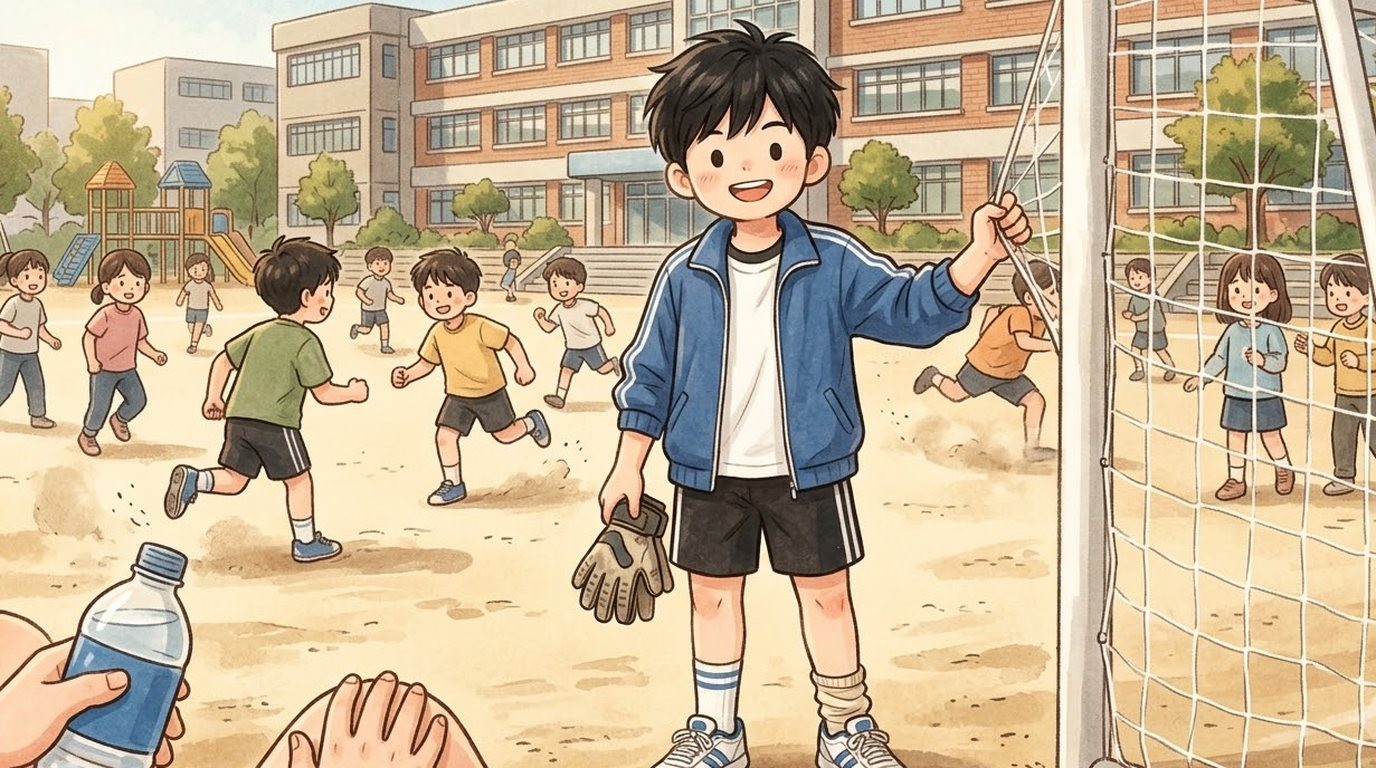
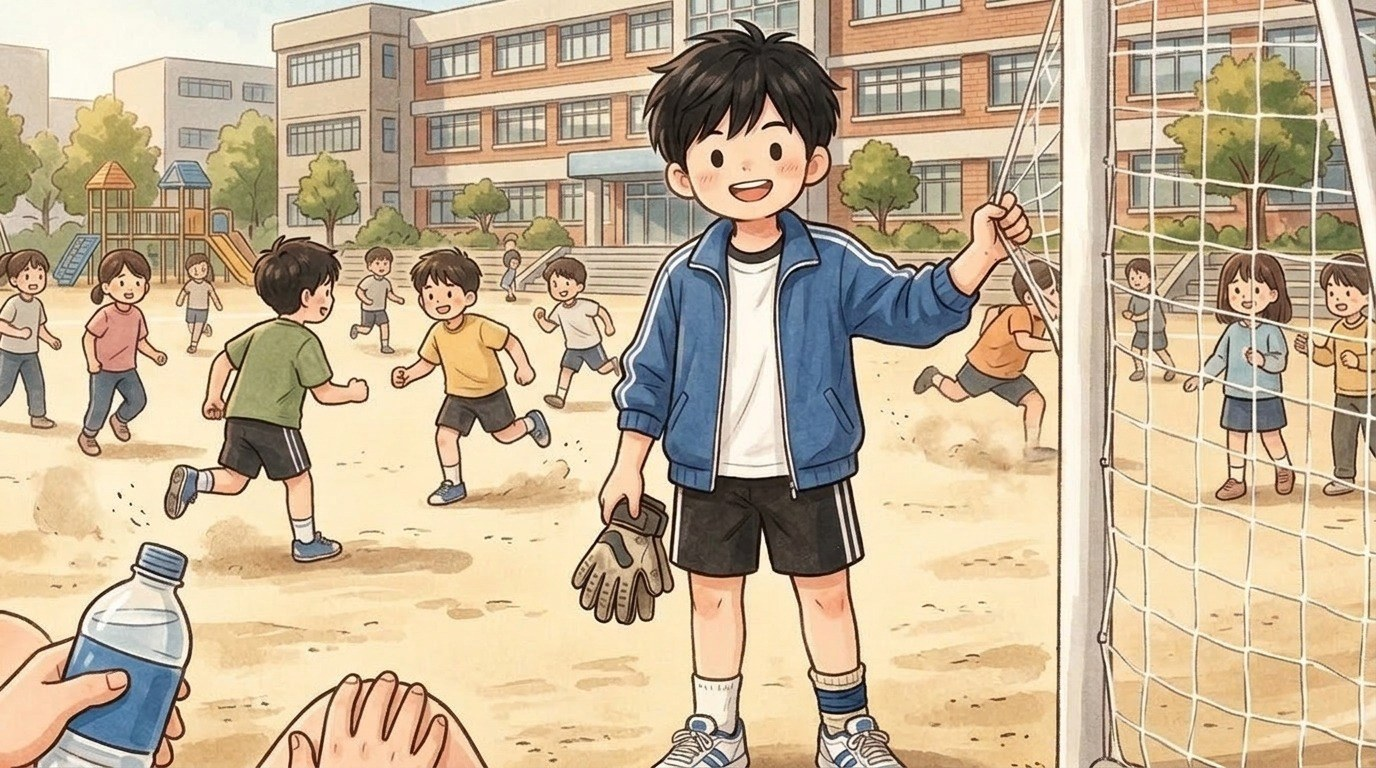
Junho AI check (days 8-15, 11/07): the classroom empties from the line that says so; bigger paper ball and goalkeeper gloves to find; no keeper picture over 'he took off the gloves', the map at the taps; pictures: brace on his left ankle (junho_08 flipped), short socks and ankle band (junho_09a), Do

diff --git a/index.html b/index.html
@@ -119,14 +119,14 @@ body,button{word-break:keep-all;overflow-wrap:break-word}
 <div id="fader"></div>
 <script>
 // same address, newest version: if the page this phone has kept is older than the one online, fetch the new one and reopen
-const BUILD='1107110427';
+const BUILD='1107111140';
 try{fetch(location.pathname,{cache:'no-store'}).then(r=>r.text()).then(t=>{const m=t.match(/const BUILD='(\d+)'/);if(m&&m[1]!==BUILD&&sessionStorage.getItem('upd')!==m[1]){sessionStorage.setItem('upd',m[1]);fetch(location.pathname,{cache:'reload'}).then(()=>location.reload())}}).catch(()=>{})}catch(e){}
 </script>
-<script src="i18n.js?v=1107110427"></script>
-<script src="i18n_prologue_v2.js?v=1107110427"></script>
-<script src="day2/i18n_engine.js?v=1107110427"></script>
-<script src="day2/data.js?v=1107110427"></script>
-<script src="day3/data.js?v=1107110427"></script>
+<script src="i18n.js?v=1107111140"></script>
+<script src="i18n_prologue_v2.js?v=1107111140"></script>
+<script src="day2/i18n_engine.js?v=1107111140"></script>
+<script src="day2/data.js?v=1107111140"></script>
+<script src="day3/data.js?v=1107111140"></script>
 <script>
 // ---------- data ----------
 const MW=1672,MH=941,KID=180;
@@ -549,34 +549,34 @@ function pickHero(){const m=document.getElementById('modal'),c=document.getEleme
  c.innerHTML=`<h2>${tr('전학생 반장되기')}</h2><p>${tr('한국말이 아직 서툰 전학생,<br>반장 선거에 나가다.')}</p><p style="margin-top:14px">${tr('누구로 할까요?')}</p>${(()=>{const s=loadSave();return s&&s.day>=2&&s.mode===UI+'-'+LANG?`<p><button class="big" id="cont">${tr('{n}일차부터 이어 하기').replace('{n}',s.day)}</button></p>`:''})()}<div class="pick heroes"><button data-h="hero_f"><img src="faces/hero_f_smile.jpg" alt="여자 주인공">${heroName(1)}</button><button data-h="hero_m"><img src="faces/hero_m_smile.jpg" alt="남자 주인공">${heroName(0)}</button></div>`;
  m.classList.add('on');{const cb=document.getElementById('cont');if(cb)cb.onclick=()=>{const s=loadSave();HERO=s.hero;Object.assign(HEART,s.heart||{});(s.found||[]).forEach(k=>FOUND.add(k));HEART_D1={...HEART};chime();(typeof contGame==='function'?contGame(s):startDay(Math.min(s.day,Object.keys(window.D3||{}).length?3:2)))}}c.querySelectorAll('.pick button').forEach(b=>b.onclick=()=>{HERO=b.dataset.h;m.classList.remove('on');chime();bgm('day');load('home_am');say([['nar','','이사 온 다음 날 아침. 아직 풀지 못한 상자들이 쌓여 있다.'],['think','sad','(오늘부터 새 학교야. 여기 말도 아직 서툰데…….)'],['think','smile','({m}한테 인사하고 학교 가야지.)']],morning)})}
 </script>
-<script src="day2/engine.js?v=1107110427"></script>
-<script src="day2/ep_minho.js?v=1107110427"></script>
-<script src="day2/meet.js?v=1107110427"></script>
-<script src="day2/ep_sua.js?v=1107110427"></script>
-<script src="day2/ep_hangyeol.js?v=1107110427"></script>
-<script src="day2/ep_siwoo.js?v=1107110427"></script>
-<script src="day2/ep_haram.js?v=1107110427"></script>
-<script src="day2/ep_jiho.js?v=1107110427"></script>
-<script src="day2/ep_hyeeun.js?v=1107110427"></script>
-<script src="day2/ep_haneul.js?v=1107110427"></script>
-<script src="day2/ep_junho.js?v=1107110427"></script>
-<script src="day2/ep_yuna.js?v=1107110427"></script>
-<script src="day2/ep_yena.js?v=1107110427"></script>
-<script src="day2/ep_haeun.js?v=1107110427"></script>
-<script src="day2/ep_youngmin.js?v=1107110427"></script>
-<script src="day2/ep_seah.js?v=1107110427"></script>
-<script src="day2/ep_jihoon.js?v=1107110427"></script>
-<script src="words_ja_ru.js?v=1107110427"></script>
-<script src="day2/mybag.js?v=1107110427"></script>
-<script src="day2/wordpics.js?v=1107110427"></script>
-<script src="day2/spots.js?v=1107110427"></script>
-<script src="day2/textfit.js?v=1107110427"></script>
-<script src="day2/tester.js?v=1107110427"></script>
-<script src="day2/ux.js?v=1107110427"></script>
-<script src="day2/tapword.js?v=1107110427"></script>
-<script src="day2/review.js?v=1107110427"></script>
-<script src="day2/ep_ending.js?v=1107110427"></script>
-<script src="day2/ending.js?v=1107110427"></script>
+<script src="day2/engine.js?v=1107111140"></script>
+<script src="day2/ep_minho.js?v=1107111140"></script>
+<script src="day2/meet.js?v=1107111140"></script>
+<script src="day2/ep_sua.js?v=1107111140"></script>
+<script src="day2/ep_hangyeol.js?v=1107111140"></script>
+<script src="day2/ep_siwoo.js?v=1107111140"></script>
+<script src="day2/ep_haram.js?v=1107111140"></script>
+<script src="day2/ep_jiho.js?v=1107111140"></script>
+<script src="day2/ep_hyeeun.js?v=1107111140"></script>
+<script src="day2/ep_haneul.js?v=1107111140"></script>
+<script src="day2/ep_junho.js?v=1107111140"></script>
+<script src="day2/ep_yuna.js?v=1107111140"></script>
+<script src="day2/ep_yena.js?v=1107111140"></script>
+<script src="day2/ep_haeun.js?v=1107111140"></script>
+<script src="day2/ep_youngmin.js?v=1107111140"></script>
+<script src="day2/ep_seah.js?v=1107111140"></script>
+<script src="day2/ep_jihoon.js?v=1107111140"></script>
+<script src="words_ja_ru.js?v=1107111140"></script>
+<script src="day2/mybag.js?v=1107111140"></script>
+<script src="day2/wordpics.js?v=1107111140"></script>
+<script src="day2/spots.js?v=1107111140"></script>
+<script src="day2/textfit.js?v=1107111140"></script>
+<script src="day2/tester.js?v=1107111140"></script>
+<script src="day2/ux.js?v=1107111140"></script>
+<script src="day2/tapword.js?v=1107111140"></script>
+<script src="day2/review.js?v=1107111140"></script>
+<script src="day2/ep_ending.js?v=1107111140"></script>
+<script src="day2/ending.js?v=1107111140"></script>
 <script>
 // the goal shows big for a few seconds, then folds into a small pill (tap it to open it again)
 {const g=document.getElementById('goal');let t=null;const big=()=>{g.classList.remove('mini');clearTimeout(t);t=setTimeout(()=>g.classList.add('mini'),4000)};

diff --git a/day2/ep_junho.js b/day2/ep_junho.js
@@ -777,7 +777,7 @@ EP.junho=[
   {only:['A','C'],lines:[['nar','','아이들이 운동장에서 우르르 들어왔다. 땀 냄새가 났다.']]},
   {only:['B'],lines:[['me','smile','3대2! 하은이네가 이겼어. 영민이 {@hand}에 두 번 맞았어.'],['junho','sad','두 번밖에? 오늘 잘 피했네.']]},
   ['nar','','준호가 연습장 한 장을 찢었다. {@hand|으로} 꾹꾹 뭉쳐서 작은 {@paper} {@ball|을} 만들었다. 그리고 교실 앞 쓰레기통을 턱으로 가리켰다.'],
-  {lay:[['paper',980,700,36,'paper_crumpled']]},
+  {lay:[['paper',980,700,58,'paper_crumpled']]},
   ['junho','smile','저기 {@goal}. 던져 봐.'],
   {k:'paper',goal:'「{x}」 공 던지기'},
   {clear:['paper']},
@@ -914,7 +914,7 @@ EP.junho=[
   ['junho','smile','세 번째. 달리기. 조금씩. 축구부 시합은 아직. 병원 선생님이 점심 축구는 골키퍼로 가볍게 해도 된대.'],
   ['nar','','준호가 {@bag}에서 낡은 {@glove} 한 켤레를 꺼냈다. 손바닥 쪽이 두꺼운 {@glove|이었}다.'],
   ['junho','smile','이거 좀 들고 있어. 끈 묶게.'],
-  {lay:[['glove',1230,420,42]]},
+  {lay:[['glove',1240,480,62]]},
   {k:'glove',goal:'「{x}」 들고 있기'},
   {clear:['glove']},
   ['nar','','준호의 골키퍼 {@glove|을} 받아 들었다. 손바닥이 두껍고 말랑했다.'],
@@ -985,6 +985,7 @@ EP.junho=[
    ['junho','sad','나 축구 하고 싶었어. 골키퍼로.'],
    ['think','smile','(애들 소리를 멈추려고 한 건데. 준호가 돌아온 첫날 축구를 없앨 뻔했어.)']]}],
  post:[
+  {pic:null},// the gloves come off here; the keeper picture (gloves on) would not match (AI check 11/07)
   ['nar','','딩동댕—'],
   ['nar','','판이 끝났다. 준호가 {@glove|을} 벗어 나한테 건넸다. {@hand}에 땀이 흥건했다.'],
   ['junho','smile','오늘 출석 두 번 하자.'],
@@ -1011,6 +1012,7 @@ EP.junho=[
  pre:[
   {pic:'junho_10a'},
   ['nar','','점심 축구가 끝났다. 오늘 준호는 처음으로 공격을 했다. 조금만. 판의 반은 골키퍼, 반은 공격.'],
+  {pic:null},// at the taps now: the map shows it (the playing picture would not match)
   ['nar','','아이들이 교실로 들어가고, 나와 준호는 수돗가로 갔다. 얼굴이 땀범벅이었다.'],
   {k:'water',goal:'「{x}」 틀기'},
   ['nar','','수도꼭지를 돌렸다. 차가운 {@water|이} 쏴아 나왔다.'],
@@ -1694,7 +1696,7 @@ const NURSE_WALK=[[[110,745],[300,620],[470,600],[640,560],[760,370],[1000,385],
  const at=(n,sub,f,before)=>{let hit=0;const fn={clear:[f]};const walk=a=>{for(let i=0;i<a.length;i++){const x=a[i];
    if(Array.isArray(x)&&typeof x[2]==='string'&&x[2].includes(sub)){a.splice(before?i:i+1,0,fn);hit++;i++}else if(x&&!Array.isArray(x)&&x.lines)walk(x.lines)}};
   const e=EP.junho[n-1];walk(e.pre||[]);walk(e.post||[]);for(const c of e.choices)walk(c.r||[]);if(!hit)console.warn('junho: no line',n,sub)};
- at(7,'교실이 거의 비어 있었다',onlyKids('junho','haeun'));                 // the others went out to the field
+ at(7,'교실이 거의 비어 있었다',onlyKids('junho','haeun'),true);                 // the others went out to the field
  at(8,'하은이랑 지훈이가 갔다',kidOff('haeun','jihoon'));
  at(11,'준호 자리는 비어 있었다',kidOff('junho'),true);                     // he is at the nurse's office
  at(11,'교실 뒷문이 열렸다',kidOn('junho',1520,430));                       // and comes in at the back door
